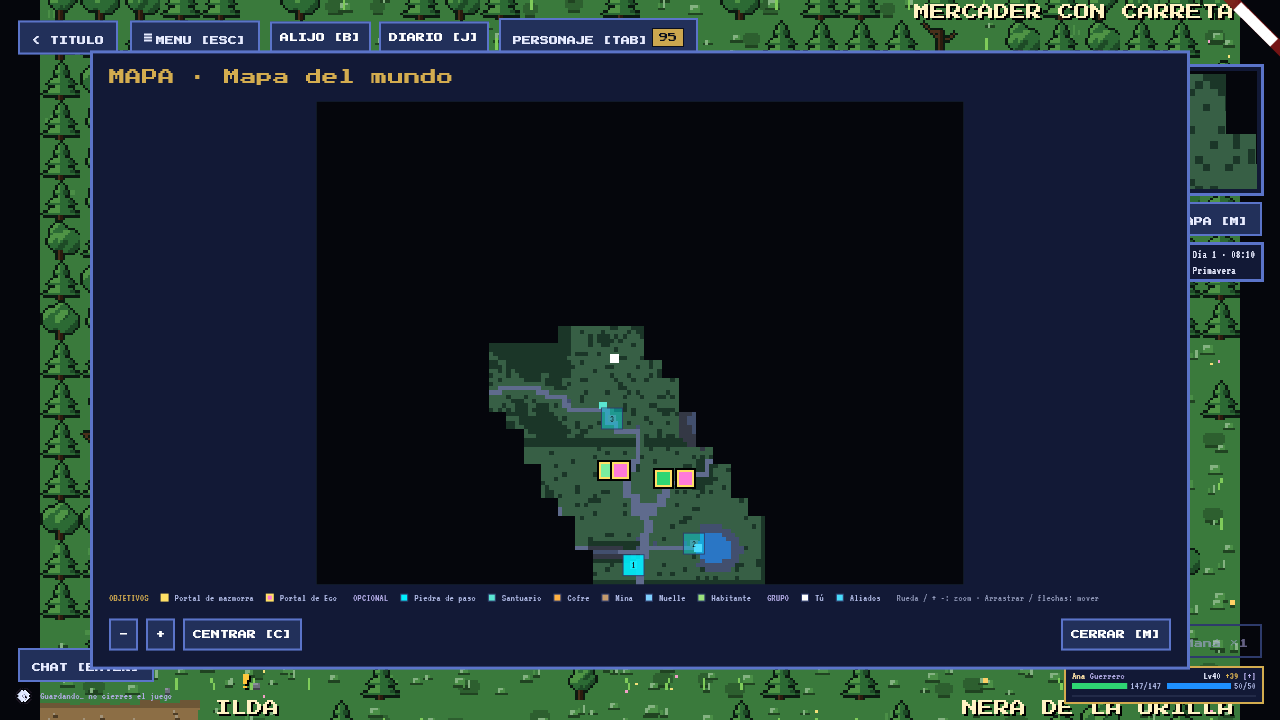
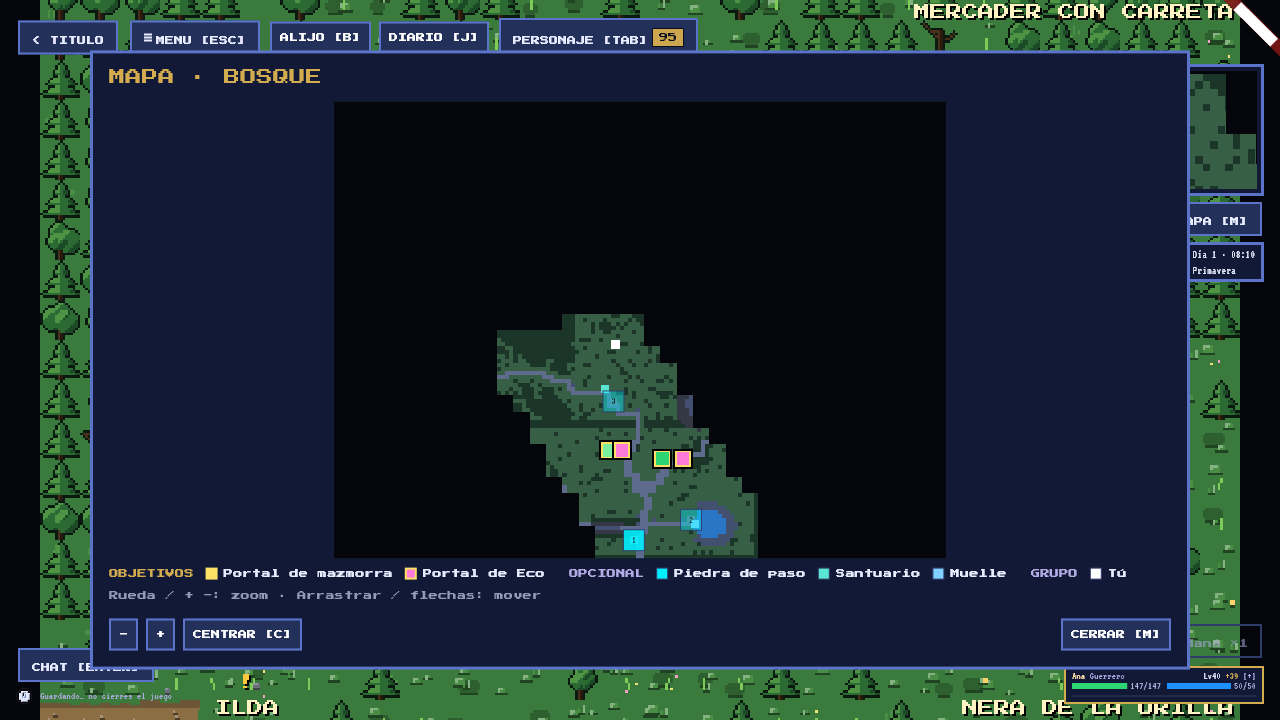
feat(world): readable overworld legend that lists only drawn marks; biome name as map title

Changed region(s): [[0.0938, 0.0917, 0.7812, 0.8556], [0.8125, 0.7944, 0.875, 0.8556]]

diff --git a/lib/features/world/presentation/hud/full_map.dart b/lib/features/world/presentation/hud/full_map.dart
@@ -13,6 +13,8 @@ import '../../../../app/theme/retro_theme.dart';
 import '../../../../game_engine/models/fog_of_war.dart';
 import '../../../../game_engine/models/game_map.dart';
 import '../../../../game_engine/models/game_session.dart';
+import '../../../../game_engine/rules/map_discovery_rules.dart'
+    show OverworldMarkKind;
 import 'map_hover_tip.dart';
 import 'minimap.dart';
 import '../world_strings.dart';
@@ -155,6 +157,38 @@ class FullMap extends StatefulWidget {
       ]
     ),
   ];
+
+  /// The overworld legend trimmed to what [ow] actually draws: goals
+  /// always, optional kinds only once one is discovered, allies only with
+  /// company. Empty groups are dropped.
+  static List<(String, List<(String, MapMark, bool)>)> overworldLegendFor(
+      OverworldOverlay ow,
+      {bool allies = true}) {
+    bool drawn(MapMark m) {
+      if (m == MapMark.me) return true;
+      if (m == MapMark.ally) return allies;
+      return ow.marks.any((k) =>
+          _markOf(k.kind) == m && (k.goal || ow.knownTile(k.x, k.y)));
+    }
+
+    return [
+      for (final (g, items) in overworldLegendMarks)
+        if (items.where((i) => drawn(i.$2)).toList() case final keep
+            when keep.isNotEmpty)
+          (g, keep),
+    ];
+  }
+
+  static MapMark _markOf(OverworldMarkKind k) => switch (k) {
+        OverworldMarkKind.portal => MapMark.goal,
+        OverworldMarkKind.echo => MapMark.echo,
+        OverworldMarkKind.waystone => MapMark.waystone,
+        OverworldMarkKind.shrine => MapMark.shrine,
+        OverworldMarkKind.chest => MapMark.chest,
+        OverworldMarkKind.mine => MapMark.mine,
+        OverworldMarkKind.dock => MapMark.dock,
+        OverworldMarkKind.resident => MapMark.resident,
+      };
 
   /// Every label key of the legend of [mode].
   static List<String> legendKeys(FullMapMode mode) => switch (mode) {
@@ -564,15 +598,17 @@ class FullMapState extends State<FullMap> with SingleTickerProviderStateMixin {
           const SizedBox(height: 8),
           Wrap(
             key: const ValueKey('full-map-legend'),
-            spacing: 16,
-            runSpacing: 4,
+            spacing: 24,
+            runSpacing: 8,
             crossAxisAlignment: WrapCrossAlignment.center,
             children: [
               if (widget.mode == FullMapMode.dungeon)
                 for (final (label, color) in FullMap.legend)
                   _LegendItem(label: context.t(label), color: color)
               else
-                for (final (group, items) in FullMap.overworldLegendMarks)
+                for (final (group, items) in FullMap.overworldLegendFor(
+                    widget.overworld!,
+                    allies: widget.session.players.length > 1))
                   Wrap(
                     key: ValueKey('full-map-legend-$group'),
                     spacing: 12,
@@ -580,10 +616,9 @@ class FullMapState extends State<FullMap> with SingleTickerProviderStateMixin {
                     crossAxisAlignment: WrapCrossAlignment.center,
                     children: [
                       Text(retroText(context.t(group)),
-                          style: TextStyle(
-                              color: group.endsWith('goals')
-                                  ? DsColors.reward
-                                  : DsColors.textSecondary)),
+                          style: DsText.subtitle(group.endsWith('goals')
+                              ? DsColors.reward
+                              : DsColors.textSecondary)),
                       for (final (label, mark, goal) in items)
                         _LegendItem(
                             label: context.t(label),
@@ -597,9 +632,9 @@ class FullMapState extends State<FullMap> with SingleTickerProviderStateMixin {
                 Text(
                     key: const ValueKey('full-map-choose-hint'),
                     retroText(context.t('ui.world.map.choose_hint')),
-                    style: const TextStyle(color: FullMap.waystoneColor)),
+                    style: DsText.subtitle(FullMap.waystoneColor)),
               Text(retroText(context.t('ui.world.map.controls')),
-                  style: const TextStyle(color: ProtoColors.dim)),
+                  style: DsText.subtitle(ProtoColors.dim)),
             ],
           ),
         ],
@@ -638,7 +673,7 @@ class _LegendItem extends StatelessWidget {
 
   @override
   Widget build(BuildContext context) {
-    final box = RetroType.width(context, 8);
+    final box = RetroType.width(context, 12);
     return Row(
       mainAxisSize: MainAxisSize.min,
       children: [
@@ -653,7 +688,7 @@ class _LegendItem extends StatelessWidget {
                         : ProtoColors.panelBorder,
                     width: goal ? 2 : 1))),
         const SizedBox(width: 6),
-        Text(retroText(label)),
+        Text(retroText(label), style: DsText.subtitle(DsColors.text)),
       ],
     );
   }

diff --git a/lib/features/world/presentation/hud/world_hud.dart b/lib/features/world/presentation/hud/world_hud.dart
@@ -19,7 +19,7 @@ import '../../../../app/theme/retro_panel.dart';
 import '../../../../app/theme/retro_text.dart';
 import '../../../../app/theme/retro_theme.dart';
 import '../../../../app/widgets/memo.dart';
-import '../../../../game_engine/data/biomes_catalog.dart' show biomeLayout;
+import '../../../../game_engine/data/biomes_catalog.dart' show biomeLayout, kBiomes;
 import '../../../../game_engine/rules/map_discovery_rules.dart';
 import '../../../../game_engine/rules/mining_rules.dart';
 import '../../../../game_engine/models/game_map.dart';
@@ -1149,11 +1149,16 @@ Widget fullMapPanel(SessionView view, SessionController controller,
   final str = strings ?? worldFallbackStrings();
   final name =
       WorldHud(view: view, controller: controller)._missionName(s, str);
-  final title = m == null || s.mode == SessionMode.lobby
-      ? str.t('ui.missions.hud.world_map')
-      : m.floors > 1
-          ? floorLabelText(str, name, m.floor, m.floors)
-          : name;
+  final overworld = overworldOverlayFor(view, controller);
+  final biome = overworld == null
+      ? null
+      : kBiomes.where((b) => b.id == view.map.place).firstOrNull?.name;
+  final title = biome ??
+      (m == null || s.mode == SessionMode.lobby
+          ? str.t('ui.missions.hud.world_map')
+          : m.floors > 1
+              ? floorLabelText(str, name, m.floor, m.floors)
+              : name);
   return FullMap(
     key: const ValueKey('panel-map'),
     title: title,
@@ -1167,7 +1172,7 @@ Widget fullMapPanel(SessionView view, SessionController controller,
     bounds: MapGame.currentFloor(view)?.bounds,
     entranceOpen: _entranceOpen(view, controller),
     fog: controller.fog,
-    overworld: overworldOverlayFor(view, controller),
+    overworld: overworld,
     waystones: _seenWaystones(view, controller),
     destinations: controller.travelDestinations,
     originId: controller.travelOrigin?.id,

diff --git a/test/features/world/overworld_map_test.dart b/test/features/world/overworld_map_test.dart
@@ -121,6 +121,16 @@ void main() {
     expect(find.text('Portal de mazmorra'), findsOneWidget);
     expect(find.text('Escalera'), findsNothing);
     expect(find.text('Jefe'), findsNothing);
+    // Title names the biome; legend only lists what is drawn.
+    expect(map.title, isNot(contains('Mapa del mundo')));
+    expect(find.text('Aliados'), findsNothing);
+    final full = FullMap.legendKeys(FullMapMode.overworld).length;
+    final shown = [
+      for (final (_, items) in FullMap.overworldLegendFor(map.overworld!,
+          allies: false))
+        ...items
+    ].length;
+    expect(shown, lessThan(full));
     // Minimap and big map share the overworld layer.
     final mm = tester.widget<Minimap>(find.byKey(const ValueKey('full-map')));
     expect(mm.overworld, isNotNull);
